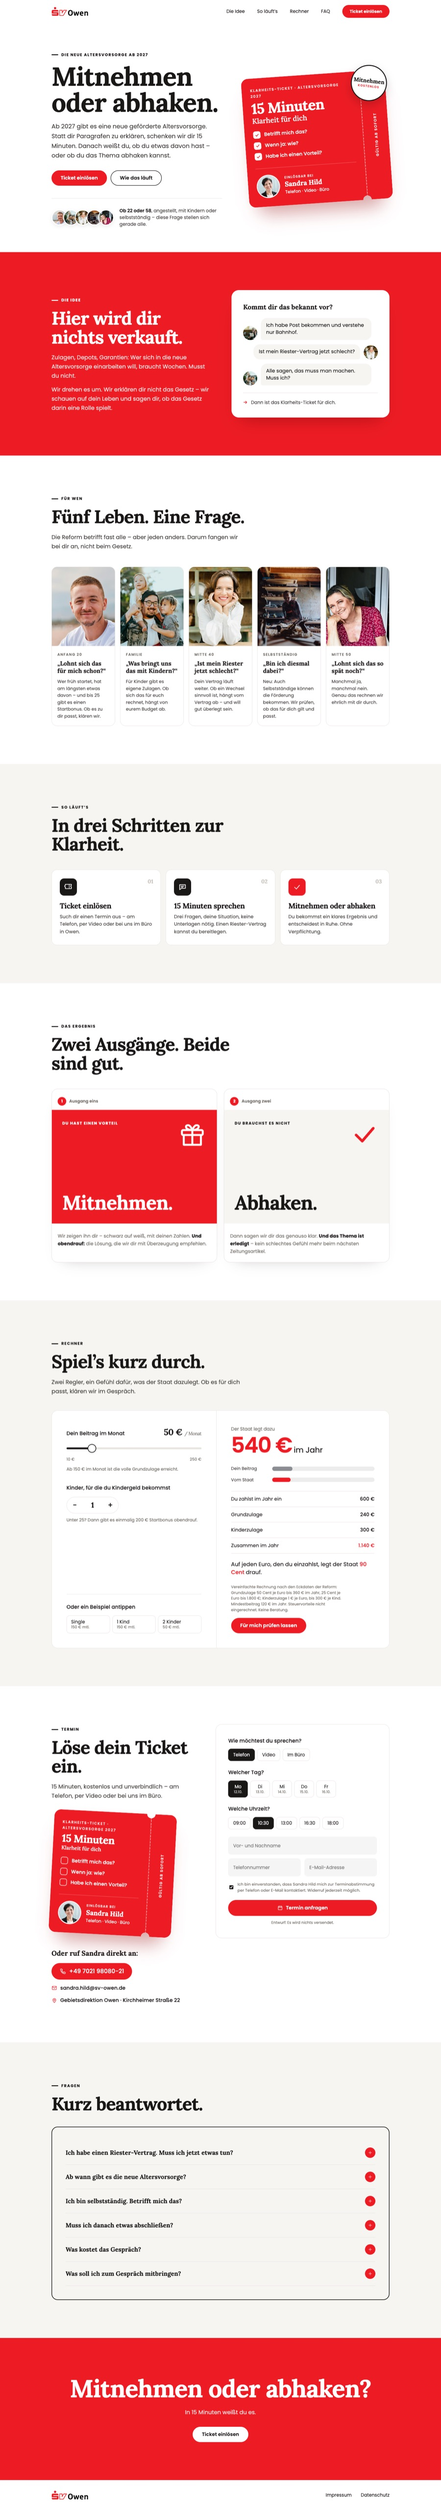
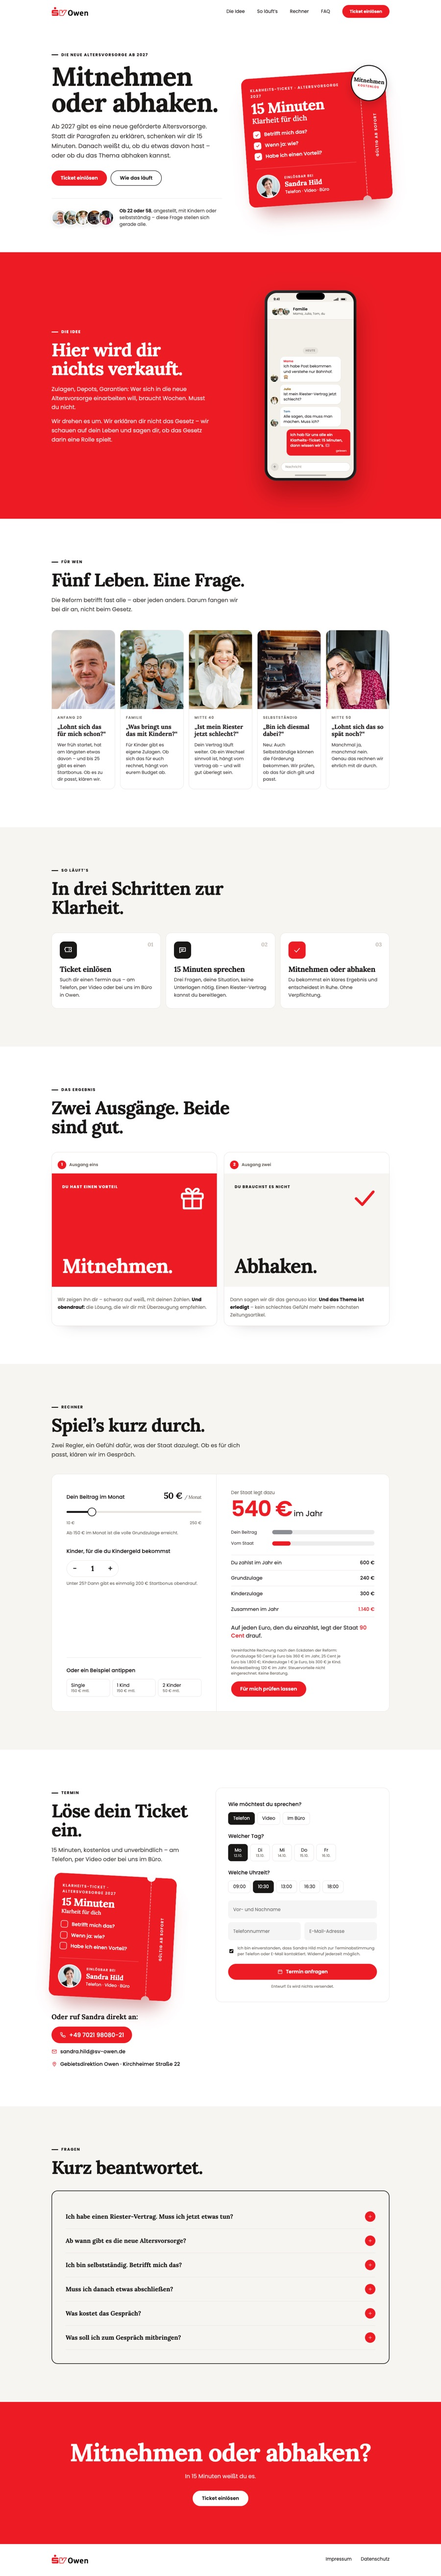
AVRG Landingpage 3: „Die Idee“ als iPhone mit Familienchat (wie Budget-Retter), Nachrichten erscheinen nacheinander; Vorschauen nachgezogen

diff --git a/site/assets/projekte/avrg/avrg-v3.css b/site/assets/projekte/avrg/avrg-v3.css
@@ -196,3 +196,52 @@ h1,h2,h3{font-family:var(--head);font-weight:700;letter-spacing:-.02em;line-heig
 .v3-kontakt a{font-size:1.05rem}
 .ticket__fuss small{display:block;font-size:11px;font-weight:600;letter-spacing:.12em;text-transform:uppercase;opacity:.85;margin-bottom:2px}
 .ticket__fuss b{white-space:nowrap}
+
+/* ---------- Die Idee: Familienchat im iPhone (Aufbau wie beim Budget-Retter) ---------- */
+.v3-phone{position:relative;justify-self:center;width:min(300px,78vw)}
+.v3-phone-rahmen{position:relative;aspect-ratio:71.7/148.7;border-radius:13%/6%;background:linear-gradient(150deg,#2b2b2b 0%,#0d0d0d 42%,#202020 100%);padding:9px;box-shadow:0 40px 80px rgba(80,0,0,.45),inset 0 0 0 1.5px rgba(255,255,255,.12)}
+.v3-taste{position:absolute;background:#17171a;border-radius:3px;z-index:-1}
+.v3-taste--stumm{left:-3px;top:15.5%;width:3.5px;height:4.2%}
+.v3-taste--lauter{left:-3.5px;top:23.5%;width:4px;height:8.4%}
+.v3-taste--leiser{left:-3.5px;top:34%;width:4px;height:8.4%}
+.v3-taste--power{right:-3.5px;top:28%;width:4px;height:12.6%}
+.v3-schirm{position:relative;height:100%;border-radius:11%/5.2%;background:#f3efe9;overflow:hidden;display:flex;flex-direction:column;font-family:var(--font)}
+.v3-insel{position:absolute;left:50%;top:9px;transform:translateX(-50%);width:31%;height:22px;border-radius:12px;background:#000;z-index:3}
+.v3-status{display:flex;align-items:center;justify-content:space-between;padding:12px 20px 0;font-size:.68rem;font-weight:600;color:#1a1817}
+.v3-status svg{height:9px;width:auto;display:block}
+.v3-status-r{display:flex;gap:5px;align-items:center}
+.v3-chatkopf{display:flex;align-items:center;gap:10px;padding:16px 14px 10px;border-bottom:1px solid #e3ddd4;background:rgba(255,255,255,.6)}
+.v3-gruppe{display:flex;flex:none}
+.v3-gruppe img{width:26px;height:26px;border-radius:50%;object-fit:cover;border:2px solid #f3efe9;margin-left:-9px}
+.v3-gruppe img:first-child{margin-left:0}
+.v3-chatkopf b{display:block;font-size:.8rem;font-weight:600;line-height:1.2;color:var(--ink)}
+.v3-chatkopf small{display:block;font-size:.62rem;color:var(--muted)}
+.v3-verlauf{flex:1;display:flex;flex-direction:column;justify-content:flex-end;gap:9px;padding:12px 11px 14px}
+.v3-tag{align-self:center;font-size:.58rem;font-weight:600;letter-spacing:.08em;text-transform:uppercase;color:#9a948b;background:rgba(0,0,0,.05);padding:3px 9px;border-radius:999px}
+.v3-msg{display:flex;align-items:flex-end;gap:7px;max-width:88%;opacity:0;transform:translateY(8px) scale(.97)}
+.v3-msg img{width:24px;height:24px;border-radius:50%;object-fit:cover;flex:none}
+.v3-msg p{margin:0;background:#fff;border-radius:14px 14px 14px 4px;padding:8px 11px;font-size:.76rem;line-height:1.4;color:var(--ink);box-shadow:0 1px 2px rgba(0,0,0,.06)}
+.v3-msg small{display:block;font-size:.6rem;font-weight:600;color:var(--rot);margin-bottom:1px}
+.v3-msg--2 small{color:#8a5a00}
+.v3-msg--3 small{color:#3d6b8f}
+.v3-msg--du{align-self:flex-end;display:block;margin:0;background:var(--rot);color:#fff;border-radius:14px 14px 4px 14px;padding:9px 12px;font-size:.76rem;line-height:1.42;font-weight:500;max-width:80%}
+.v3-zeit{display:block;margin-top:3px;font-size:.55rem;opacity:.75;text-align:right;font-weight:500}
+.v3-tippt{align-self:flex-end;display:flex;gap:4px;padding:10px 12px;background:var(--rot);border-radius:14px;opacity:0;height:0;padding-top:0;padding-bottom:0;overflow:hidden}
+.v3-tippt i{width:6px;height:6px;border-radius:50%;background:rgba(255,255,255,.7);animation:v3-huepf 1.1s ease-in-out infinite}
+.v3-tippt i:nth-child(2){animation-delay:.15s}
+.v3-tippt i:nth-child(3){animation-delay:.3s}
+.v3-eingabe{display:flex;align-items:center;gap:8px;padding:8px 11px 10px}
+.v3-plus{width:26px;height:26px;border-radius:50%;background:rgba(26,24,23,.07);display:grid;place-items:center;font-size:1rem;color:rgba(26,24,23,.55);flex:none}
+.v3-feld{flex:1;height:30px;border-radius:999px;background:#fff;border:1px solid #ddd8d0;display:flex;align-items:center;padding:0 13px;font-size:.68rem;color:#a9a39a}
+.v3-home{width:36%;height:4px;border-radius:2px;background:rgba(0,0,0,.28);margin:0 auto 7px}
+.v3-phone.ist-sichtbar .v3-msg{animation:v3-rein .45s cubic-bezier(.2,.8,.3,1) forwards}
+.v3-phone.ist-sichtbar .v3-msg--1{animation-delay:.3s}
+.v3-phone.ist-sichtbar .v3-msg--2{animation-delay:1.3s}
+.v3-phone.ist-sichtbar .v3-msg--3{animation-delay:2.3s}
+.v3-phone.ist-sichtbar .v3-tippt{animation:v3-tipp-an .25s ease 3.1s forwards,v3-tipp-aus .2s ease 4.3s forwards}
+.v3-phone.ist-sichtbar .v3-msg--du{animation-delay:4.4s}
+@keyframes v3-rein{to{opacity:1;transform:none}}
+@keyframes v3-tipp-an{to{opacity:1;height:auto;padding-top:10px;padding-bottom:10px}}
+@keyframes v3-tipp-aus{to{opacity:0;height:0;padding:0;margin:0}}
+@keyframes v3-huepf{0%,60%,100%{transform:none}30%{transform:translateY(-4px)}}
+@media (prefers-reduced-motion:reduce){.v3-msg{opacity:1;transform:none;animation:none!important}.v3-tippt{display:none}}

diff --git a/site/projekte/avrg-landingpage-3.html b/site/projekte/avrg-landingpage-3.html
@@ -7,7 +7,7 @@
 <meta name="description" content="Die neue geförderte Altersvorsorge ab 2027: Dein Klarheits-Ticket – in 15 Minuten weißt du, ob du etwas davon hast.">
 <meta name="robots" content="noindex, nofollow">
 <link rel="stylesheet" href="/assets/projekte/avrg/avrg.css?v=2">
-<link rel="stylesheet" href="/assets/projekte/avrg/avrg-v3.css?v=8">
+<link rel="stylesheet" href="/assets/projekte/avrg/avrg-v3.css?v=9">
 </head>
 <body>
 <svg width="0" height="0" style="position:absolute" aria-hidden="true"><defs>
@@ -65,14 +65,26 @@
     <p class="v3-lead">Zulagen, Depots, Garantien: Wer sich in die neue Altersvorsorge einarbeiten will, braucht Wochen. Musst du nicht.</p>
     <p class="v3-lead">Wir drehen es um. Wir erklären dir nicht das Gesetz – wir schauen auf dein Leben und sagen dir, ob das Gesetz darin eine Rolle spielt.</p>
   </div>
-  <div class="v3-stimmen">
-    <p class="v3-stimmen__titel">Kommt dir das bekannt vor?</p>
-    <ul>
-      <li><img src="/assets/projekte/avrg/fotos/frau-brief.jpg" alt=""><span>Ich habe Post bekommen und verstehe nur Bahnhof.</span></li>
-      <li><img src="/assets/projekte/avrg/fotos/frau-40.jpg" alt=""><span>Ist mein Riester-Vertrag jetzt schlecht?</span></li>
-      <li><img src="/assets/projekte/avrg/fotos/vater-kinder.jpg" alt=""><span>Alle sagen, das muss man machen. Muss ich?</span></li>
-    </ul>
-    <p class="v3-stimmen__fuss"><b>→</b> Dann ist das Klarheits-Ticket für dich.</p>
+  <div class="v3-phone" id="v3-phone" aria-label="Familienchat: drei Fragen zur neuen Altersvorsorge">
+    <span class="v3-taste v3-taste--stumm" aria-hidden="true"></span><span class="v3-taste v3-taste--lauter" aria-hidden="true"></span><span class="v3-taste v3-taste--leiser" aria-hidden="true"></span><span class="v3-taste v3-taste--power" aria-hidden="true"></span>
+    <div class="v3-phone-rahmen"><div class="v3-insel" aria-hidden="true"></div>
+      <div class="v3-schirm">
+        <div class="v3-status" aria-hidden="true"><span>9:41</span><span class="v3-status-r">
+          <svg viewBox="0 0 18 10"><g fill="#1a1817"><rect x="0" y="7" width="3" height="3" rx=".6"/><rect x="4.5" y="5" width="3" height="5" rx=".6"/><rect x="9" y="2.6" width="3" height="7.4" rx=".6"/><rect x="13.5" y="0" width="3" height="10" rx=".6"/></g></svg>
+          <svg viewBox="0 0 26 10"><rect x=".6" y=".6" width="21" height="8.8" rx="2.6" fill="none" stroke="#1a1817" stroke-opacity=".45" stroke-width="1"/><rect x="2.2" y="2.2" width="15" height="5.6" rx="1.4" fill="#1a1817"/></svg></span></div>
+        <div class="v3-chatkopf"><span class="v3-gruppe" aria-hidden="true"><img src="/assets/projekte/avrg/fotos/frau-brief.jpg" alt=""><img src="/assets/projekte/avrg/fotos/frau-40.jpg" alt=""><img src="/assets/projekte/avrg/fotos/vater-kinder.jpg" alt=""></span><span><b>Familie</b><small>Mama, Julia, Tom, du</small></span></div>
+        <div class="v3-verlauf">
+          <span class="v3-tag">Heute</span>
+          <div class="v3-msg v3-msg--1"><img src="/assets/projekte/avrg/fotos/frau-brief.jpg" alt=""><p><small>Mama</small>Ich habe Post bekommen und verstehe nur Bahnhof. 🙈</p></div>
+          <div class="v3-msg v3-msg--2"><img src="/assets/projekte/avrg/fotos/frau-40.jpg" alt=""><p><small>Julia</small>Ist mein Riester-Vertrag jetzt schlecht?</p></div>
+          <div class="v3-msg v3-msg--3"><img src="/assets/projekte/avrg/fotos/vater-kinder.jpg" alt=""><p><small>Tom</small>Alle sagen, das muss man machen. Muss ich?</p></div>
+          <div class="v3-tippt" aria-hidden="true"><i></i><i></i><i></i></div>
+          <p class="v3-msg v3-msg--du">Ich hab für uns alle ein Klarheits-Ticket: 15 Minuten, dann wissen wir’s. 🎟<span class="v3-zeit">gelesen</span></p>
+        </div>
+        <div class="v3-eingabe" aria-hidden="true"><span class="v3-plus">+</span><span class="v3-feld">Nachricht</span></div>
+        <div class="v3-home" aria-hidden="true"></div>
+      </div>
+    </div>
   </div>
 </div></section>
 
@@ -312,6 +324,10 @@
     cta.classList.toggle('ist-sichtbar', window.scrollY > 600 && (t.top > window.innerHeight || t.bottom < 0));
   }
   window.addEventListener('scroll', scroll, {passive: true}); scroll();
+  /* Chat im Telefon startet, sobald es sichtbar ist */
+  var tel = document.getElementById('v3-phone');
+  if (tel) { if ('IntersectionObserver' in window) { new IntersectionObserver(function(es, o){ es.forEach(function(e){ if (e.isIntersecting) { tel.classList.add('ist-sichtbar'); o.disconnect(); } }); }, {threshold: .35}).observe(tel); } else tel.classList.add('ist-sichtbar'); }
+
   /* Die Haken auf den Tickets setzen sich, sobald ein Ticket sichtbar wird */
   document.querySelectorAll('.ticket').forEach(function(t){
     if (!('IntersectionObserver' in window)) { t.classList.add('ist-sichtbar'); return; }

diff --git a/site/projekte/avrg.html b/site/projekte/avrg.html
@@ -691,15 +691,15 @@ if(document.readyState==='loading')document.addEventListener('DOMContentLoaded',
       <p class="e2-kicker">Landingpage &middot; drei Varianten</p>
       <div class="ak-varianten">
         <a class="ak-karte lpv" href="/projekte/avrg-landingpage-1.html">
-          <span class="lpv-fenster"><span class="lpv-leiste"><i></i><i></i><i></i><span>agentur-beispiel.de/neue-altersvorsorge</span></span><span class="lpv-seite"><img src="/assets/projekte/avrg/lp-vorschau-voll-1.jpg?v=8" alt="Vorschau der ganzen Landingpage, Variante 1" loading="lazy"></span><span class="lpv-hinweis">Zum Durchscrollen darüberfahren</span></span>
+          <span class="lpv-fenster"><span class="lpv-leiste"><i></i><i></i><i></i><span>agentur-beispiel.de/neue-altersvorsorge</span></span><span class="lpv-seite"><img src="/assets/projekte/avrg/lp-vorschau-voll-1.jpg?v=9" alt="Vorschau der ganzen Landingpage, Variante 1" loading="lazy"></span><span class="lpv-hinweis">Zum Durchscrollen darüberfahren</span></span>
           <span class="ak-karte-text"><small>Landingpage &middot; Variante 1</small><b>Nah an der Vorlage</b><p>Kopf und Aufmacher exakt wie die bestehenden Landingpages von SV Owen: Foto über die volle Breite, Text mittig, roter Knopf. Darunter Problem, Lösung, Rechner, Termin.</p><span class="ak-pfeil">Variante 1 öffnen &rarr;</span></span>
         </a>
         <a class="ak-karte lpv" href="/projekte/avrg-landingpage-2.html">
-          <span class="lpv-fenster"><span class="lpv-leiste"><i></i><i></i><i></i><span>agentur-beispiel.de/neue-altersvorsorge-2</span></span><span class="lpv-seite"><img src="/assets/projekte/avrg/lp-vorschau-voll-2.jpg?v=8" alt="Vorschau der ganzen Landingpage, Variante 2" loading="lazy"></span><span class="lpv-hinweis">Zum Durchscrollen darüberfahren</span></span>
+          <span class="lpv-fenster"><span class="lpv-leiste"><i></i><i></i><i></i><span>agentur-beispiel.de/neue-altersvorsorge-2</span></span><span class="lpv-seite"><img src="/assets/projekte/avrg/lp-vorschau-voll-2.jpg?v=9" alt="Vorschau der ganzen Landingpage, Variante 2" loading="lazy"></span><span class="lpv-hinweis">Zum Durchscrollen darüberfahren</span></span>
           <span class="ak-karte-text"><small>Landingpage &middot; Variante 2</small><b>Was trifft auf dich zu?</b><p>Gleiche Farben und Elemente, eigene Story: Der Besucher wählt oben seine Lebenslage, die Seite antwortet mit seiner Frage. Dann das Gespräch als Zeitleiste.</p><span class="ak-pfeil">Variante 2 öffnen &rarr;</span></span>
         </a>
         <a class="ak-karte lpv" href="/projekte/avrg-landingpage-3.html">
-          <span class="lpv-fenster"><span class="lpv-leiste"><i></i><i></i><i></i><span>agentur-beispiel.de/neue-altersvorsorge-3</span></span><span class="lpv-seite"><img src="/assets/projekte/avrg/lp-vorschau-voll-3.jpg?v=8" alt="Vorschau der ganzen Landingpage, Variante 3" loading="lazy"></span><span class="lpv-hinweis">Zum Durchscrollen darüberfahren</span></span>
+          <span class="lpv-fenster"><span class="lpv-leiste"><i></i><i></i><i></i><span>agentur-beispiel.de/neue-altersvorsorge-3</span></span><span class="lpv-seite"><img src="/assets/projekte/avrg/lp-vorschau-voll-3.jpg?v=9" alt="Vorschau der ganzen Landingpage, Variante 3" loading="lazy"></span><span class="lpv-hinweis">Zum Durchscrollen darüberfahren</span></span>
           <span class="ak-karte-text"><small>Landingpage &middot; Variante 3</small><b>Das Klarheits-Ticket</b><p>Maßstab Volksfest-Seite: ein rotes Ticket „15 Minuten Klarheit“ als Bildidee, fünf Menschen, fünf Fragen, kräftige Flächen.</p><span class="ak-pfeil">Variante 3 öffnen &rarr;</span></span>
         </a>
       </div>

diff --git a/site/projekte/avrg-medienkonzept.html b/site/projekte/avrg-medienkonzept.html
@@ -741,10 +741,10 @@ if(document.readyState==='loading')document.addEventListener('DOMContentLoaded',
       <p class="e2-lead">Drei Varianten zur Auswahl. Jeder Baustein beantwortet eine Frage, die der Besucher in diesem Moment hat – und führt zum Termin.</p>
       <div class="ak-lp" style="margin-top:clamp(32px,4vw,48px)">
         <div>
-          <div class="mk-varianten"><button type="button" class="mk-variante" data-v="1" aria-pressed="true"><img src="/assets/projekte/avrg/lp-vorschau-1.jpg?v=8" alt="">Variante 1 · Vorlage</button><button type="button" class="mk-variante" data-v="2" aria-pressed="false"><img src="/assets/projekte/avrg/lp-vorschau-2.jpg?v=8" alt="">Variante 2 · Lebenslage</button><button type="button" class="mk-variante" data-v="3" aria-pressed="false"><img src="/assets/projekte/avrg/lp-vorschau-3.jpg?v=8" alt="">Variante 3 · Ticket</button></div>
+          <div class="mk-varianten"><button type="button" class="mk-variante" data-v="1" aria-pressed="true"><img src="/assets/projekte/avrg/lp-vorschau-1.jpg?v=9" alt="">Variante 1 · Vorlage</button><button type="button" class="mk-variante" data-v="2" aria-pressed="false"><img src="/assets/projekte/avrg/lp-vorschau-2.jpg?v=9" alt="">Variante 2 · Lebenslage</button><button type="button" class="mk-variante" data-v="3" aria-pressed="false"><img src="/assets/projekte/avrg/lp-vorschau-3.jpg?v=9" alt="">Variante 3 · Ticket</button></div>
           <div class="ak-browser">
             <div class="ak-browser-bar"><i></i><i></i><i></i><span id="mk-lp-url">agentur-beispiel.de/neue-altersvorsorge</span></div>
-            <div class="ak-browser-seite" tabindex="0" aria-label="Vorschau der Landingpage, scrollbar"><img id="mk-lp-bild" src="/assets/projekte/avrg/lp-vorschau-voll-1.jpg?v=8" alt="Vorschau der gesamten Landingpage"></div>
+            <div class="ak-browser-seite" tabindex="0" aria-label="Vorschau der Landingpage, scrollbar"><img id="mk-lp-bild" src="/assets/projekte/avrg/lp-vorschau-voll-1.jpg?v=9" alt="Vorschau der gesamten Landingpage"></div>
           </div>
           <p class="ak-browser-hinweis">Vorschau zum Durchscrollen &middot; die echten Seiten sind voll klickbar</p>
         </div>

diff --git a/site/assets/projekte/avrg/mk.js b/site/assets/projekte/avrg/mk.js
@@ -36,7 +36,7 @@
     b.addEventListener('click', function () {
       var v = b.dataset.v;
       $$('.mk-variante').forEach(function (x) { x.setAttribute('aria-pressed', x === b ? 'true' : 'false'); });
-      $('#mk-lp-bild').src = '/assets/projekte/avrg/lp-vorschau-voll-' + v + '.jpg?v=8';
+      $('#mk-lp-bild').src = '/assets/projekte/avrg/lp-vorschau-voll-' + v + '.jpg?v=9';
       $('.ak-browser-seite').scrollTop = 0;
       $('#mk-lp-url').textContent = 'agentur-beispiel.de/neue-altersvorsorge' + (v === '1' ? '' : '-' + v);
       $$('.mk-bausteine').forEach(function (l) { l.hidden = l.dataset.v !== v; });
